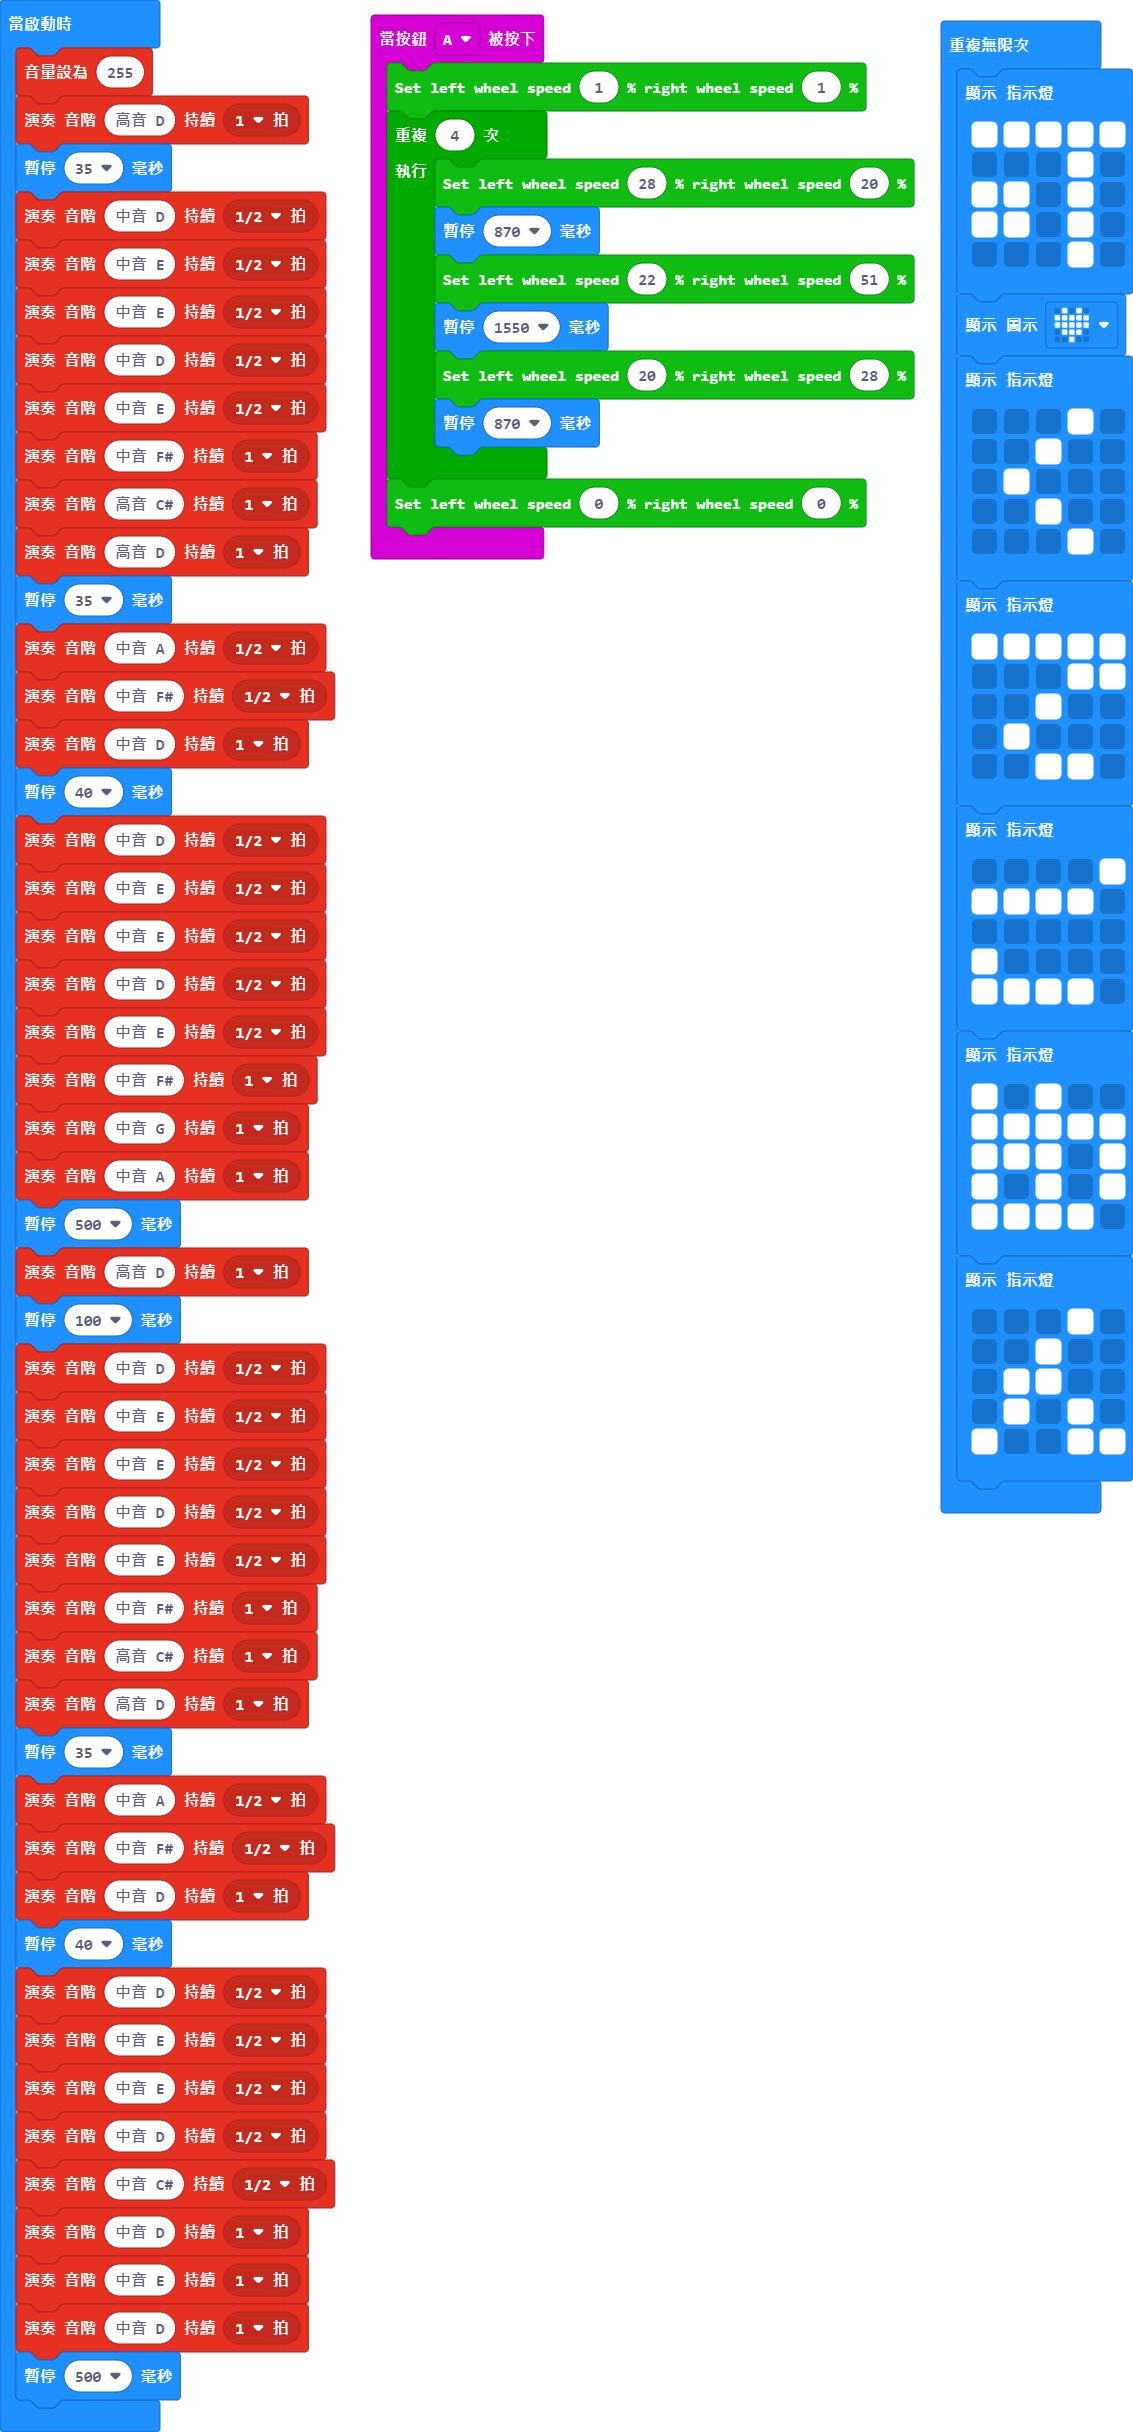
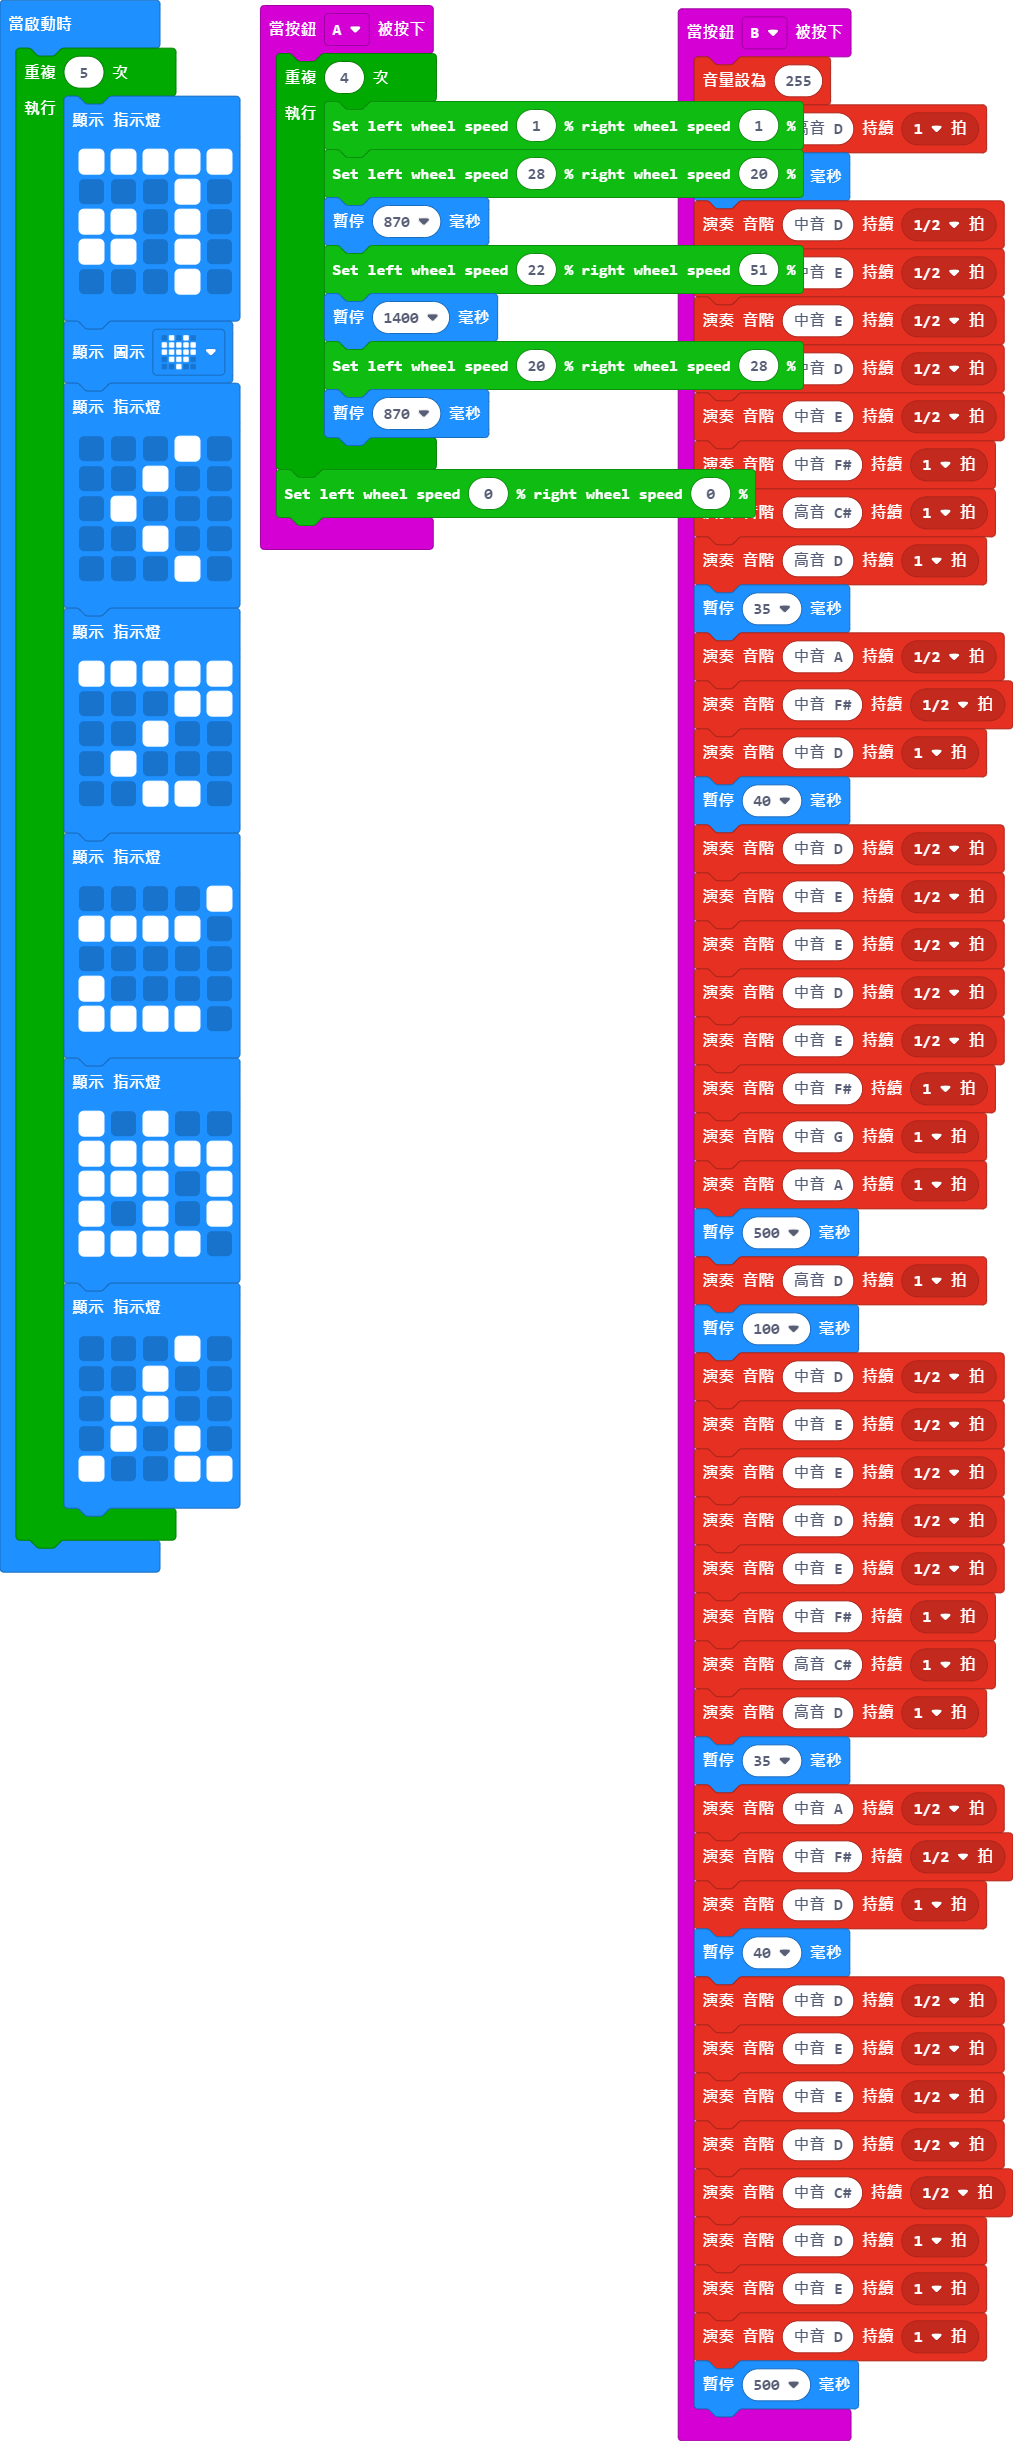
更新 main.blocks, main.ts

diff --git a/main.ts b/main.ts
@@ -1,65 +1,67 @@
 input.onButtonPressed(Button.A, function () {
-    cuteBot.motors(1, 1)
     for (let index = 0; index < 4; index++) {
+        cuteBot.motors(1, 1)
         cuteBot.motors(28, 20)
         basic.pause(870)
         cuteBot.motors(22, 51)
-        basic.pause(1550)
+        basic.pause(1400)
         cuteBot.motors(20, 28)
         basic.pause(870)
     }
     cuteBot.motors(0, 0)
 })
-music.setVolume(255)
-music.playTone(587, music.beat(BeatFraction.Whole))
-basic.pause(35)
-music.playTone(294, music.beat(BeatFraction.Half))
-music.playTone(330, music.beat(BeatFraction.Half))
-music.playTone(330, music.beat(BeatFraction.Half))
-music.playTone(294, music.beat(BeatFraction.Half))
-music.playTone(330, music.beat(BeatFraction.Half))
-music.playTone(370, music.beat(BeatFraction.Whole))
-music.playTone(554, music.beat(BeatFraction.Whole))
-music.playTone(587, music.beat(BeatFraction.Whole))
-basic.pause(35)
-music.playTone(440, music.beat(BeatFraction.Half))
-music.playTone(370, music.beat(BeatFraction.Half))
-music.playTone(294, music.beat(BeatFraction.Whole))
-basic.pause(40)
-music.playTone(294, music.beat(BeatFraction.Half))
-music.playTone(330, music.beat(BeatFraction.Half))
-music.playTone(330, music.beat(BeatFraction.Half))
-music.playTone(294, music.beat(BeatFraction.Half))
-music.playTone(330, music.beat(BeatFraction.Half))
-music.playTone(370, music.beat(BeatFraction.Whole))
-music.playTone(392, music.beat(BeatFraction.Whole))
-music.playTone(440, music.beat(BeatFraction.Whole))
-basic.pause(500)
-music.playTone(587, music.beat(BeatFraction.Whole))
-basic.pause(100)
-music.playTone(294, music.beat(BeatFraction.Half))
-music.playTone(330, music.beat(BeatFraction.Half))
-music.playTone(330, music.beat(BeatFraction.Half))
-music.playTone(294, music.beat(BeatFraction.Half))
-music.playTone(330, music.beat(BeatFraction.Half))
-music.playTone(370, music.beat(BeatFraction.Whole))
-music.playTone(554, music.beat(BeatFraction.Whole))
-music.playTone(587, music.beat(BeatFraction.Whole))
-basic.pause(35)
-music.playTone(440, music.beat(BeatFraction.Half))
-music.playTone(370, music.beat(BeatFraction.Half))
-music.playTone(294, music.beat(BeatFraction.Whole))
-basic.pause(40)
-music.playTone(294, music.beat(BeatFraction.Half))
-music.playTone(330, music.beat(BeatFraction.Half))
-music.playTone(330, music.beat(BeatFraction.Half))
-music.playTone(294, music.beat(BeatFraction.Half))
-music.playTone(277, music.beat(BeatFraction.Half))
-music.playTone(294, music.beat(BeatFraction.Whole))
-music.playTone(330, music.beat(BeatFraction.Whole))
-music.playTone(294, music.beat(BeatFraction.Whole))
-basic.pause(500)
-basic.forever(function () {
+input.onButtonPressed(Button.B, function () {
+    music.setVolume(255)
+    music.playTone(587, music.beat(BeatFraction.Whole))
+    basic.pause(35)
+    music.playTone(294, music.beat(BeatFraction.Half))
+    music.playTone(330, music.beat(BeatFraction.Half))
+    music.playTone(330, music.beat(BeatFraction.Half))
+    music.playTone(294, music.beat(BeatFraction.Half))
+    music.playTone(330, music.beat(BeatFraction.Half))
+    music.playTone(370, music.beat(BeatFraction.Whole))
+    music.playTone(554, music.beat(BeatFraction.Whole))
+    music.playTone(587, music.beat(BeatFraction.Whole))
+    basic.pause(35)
+    music.playTone(440, music.beat(BeatFraction.Half))
+    music.playTone(370, music.beat(BeatFraction.Half))
+    music.playTone(294, music.beat(BeatFraction.Whole))
+    basic.pause(40)
+    music.playTone(294, music.beat(BeatFraction.Half))
+    music.playTone(330, music.beat(BeatFraction.Half))
+    music.playTone(330, music.beat(BeatFraction.Half))
+    music.playTone(294, music.beat(BeatFraction.Half))
+    music.playTone(330, music.beat(BeatFraction.Half))
+    music.playTone(370, music.beat(BeatFraction.Whole))
+    music.playTone(392, music.beat(BeatFraction.Whole))
+    music.playTone(440, music.beat(BeatFraction.Whole))
+    basic.pause(500)
+    music.playTone(587, music.beat(BeatFraction.Whole))
+    basic.pause(100)
+    music.playTone(294, music.beat(BeatFraction.Half))
+    music.playTone(330, music.beat(BeatFraction.Half))
+    music.playTone(330, music.beat(BeatFraction.Half))
+    music.playTone(294, music.beat(BeatFraction.Half))
+    music.playTone(330, music.beat(BeatFraction.Half))
+    music.playTone(370, music.beat(BeatFraction.Whole))
+    music.playTone(554, music.beat(BeatFraction.Whole))
+    music.playTone(587, music.beat(BeatFraction.Whole))
+    basic.pause(35)
+    music.playTone(440, music.beat(BeatFraction.Half))
+    music.playTone(370, music.beat(BeatFraction.Half))
+    music.playTone(294, music.beat(BeatFraction.Whole))
+    basic.pause(40)
+    music.playTone(294, music.beat(BeatFraction.Half))
+    music.playTone(330, music.beat(BeatFraction.Half))
+    music.playTone(330, music.beat(BeatFraction.Half))
+    music.playTone(294, music.beat(BeatFraction.Half))
+    music.playTone(277, music.beat(BeatFraction.Half))
+    music.playTone(294, music.beat(BeatFraction.Whole))
+    music.playTone(330, music.beat(BeatFraction.Whole))
+    music.playTone(294, music.beat(BeatFraction.Whole))
+    basic.pause(500)
+})
+for (let index = 0; index < 5; index++) {
     basic.showLeds(`
         # # # # #
         . . . # .
@@ -103,4 +105,4 @@ basic.forever(function () {
         . # . # .
         # . . # #
         `)
-})
+}
